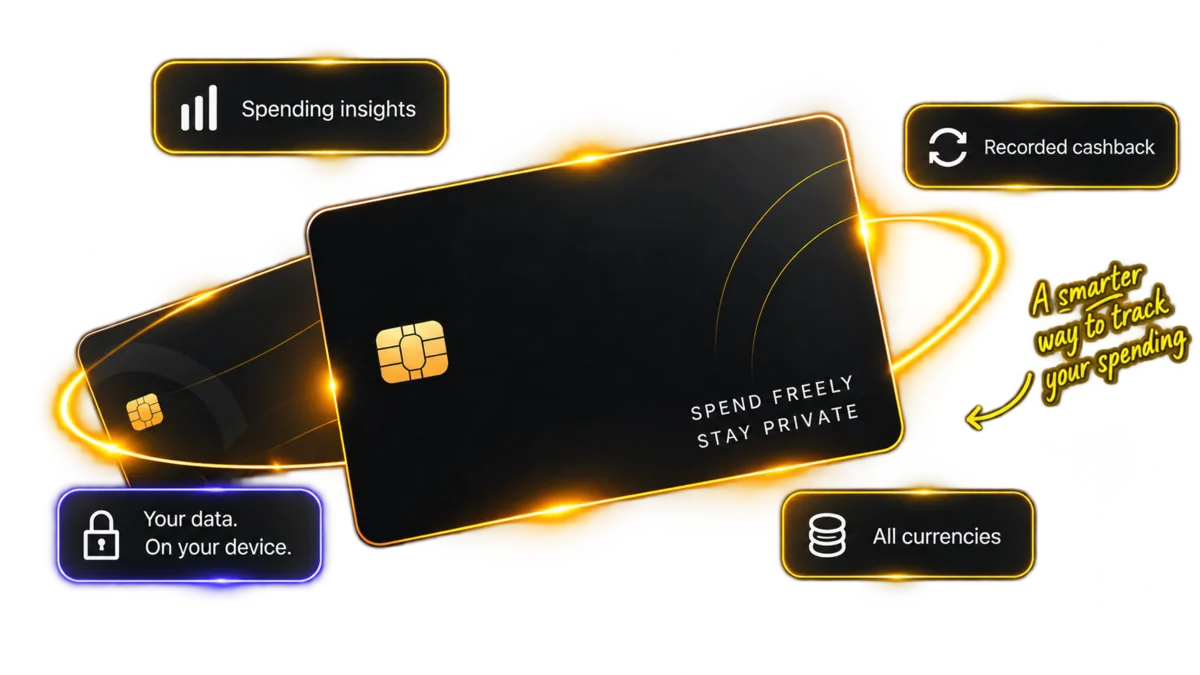
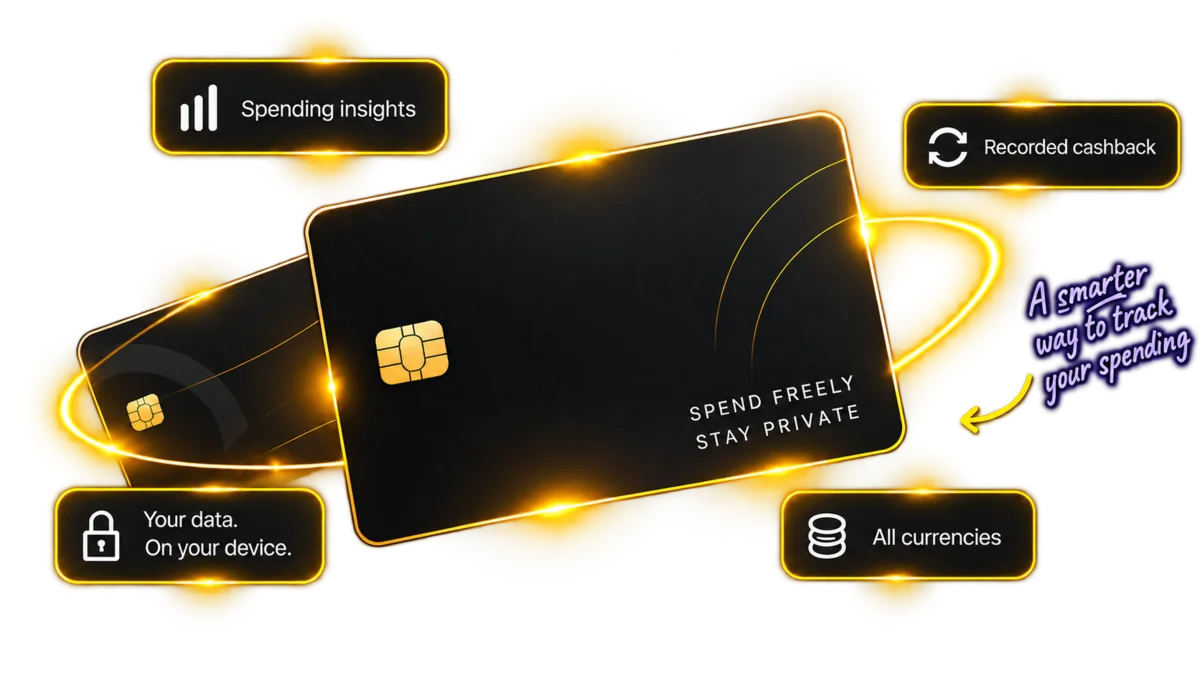
Update the hero artwork and turn its glow gold again
A new version of the hero card illustration, with every callout in gold
and the handwritten "A smarter way to track your spending" in purple.
Converted from the supplied PNG (1672x941, 1.4 MB) to a 1200x675 WebP
with transparency at 129 KB. The glow behind it is gold again, at its
original strength, and the link preview image is regenerated with the
new artwork.

diff --git a/src/components/home/HeroCard.tsx b/src/components/home/HeroCard.tsx
@@ -9,7 +9,7 @@ import heroCardImage from '@/assets/hero-card.webp'
 function HeroCard() {
   return (
     <div className="relative mx-auto flex w-full min-w-0 items-center justify-center">
-      <div aria-hidden="true" className="absolute size-3/4 rounded-full bg-accent-2/35 blur-3xl" />
+      <div aria-hidden="true" className="absolute size-3/4 rounded-full bg-primary/40 blur-3xl" />
       <img
         src={heroCardImage}
         alt="A Web3Spend card, surrounded by callouts for spending insights, recorded cashback, on-device privacy, and support for all currencies"
